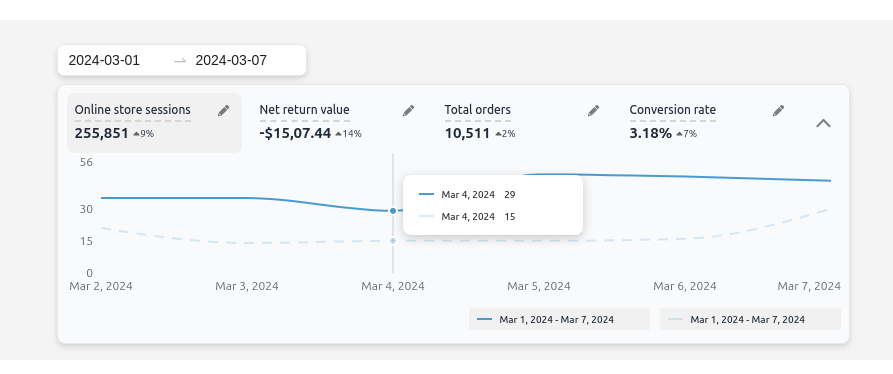
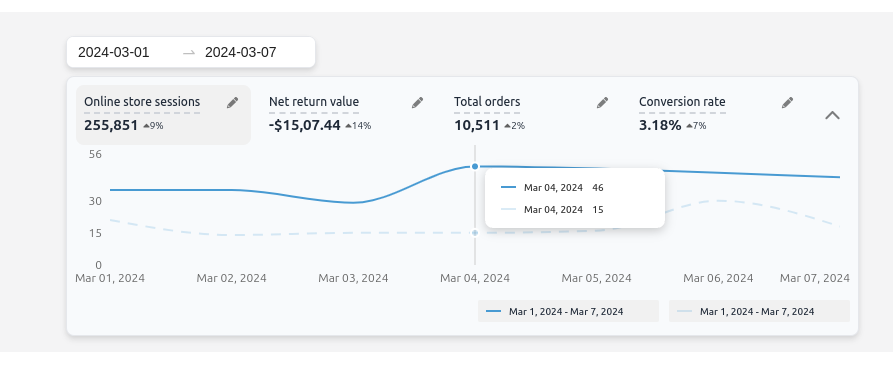
rechnages

diff --git a/src/pages/dashboard/index.tsx b/src/pages/dashboard/index.tsx
@@ -20,7 +20,7 @@ export const Dashboard: React.FC = () => {
       field: "end",
       operator: "eq",
       value: toDate
-        ? dayjs(toDate).endOf("day")
+        ? dayjs(toDate).endOf("day").add(1, "days")
         : dayjs().startOf("day").add(1, "days"),
     },
   ];
@@ -39,24 +39,32 @@ export const Dashboard: React.FC = () => {
     return useMemo(() => {
       if (d?.data?.data?.length > 0 && dailyOrders?.data?.data?.length > 0) {
         const formattedData1 = d?.data?.data?.map((item: IChartDatum) => {
-          const formattedDate = dayjs(item?.date).format("MMM D, YYYY");
-          const currentDate = dayjs(formattedDate)
-            .add(1, "day")
-            .format("MMM D, YYYY");
+          const currentDate = new Date(item?.date);
+          currentDate.setDate(currentDate.getDate());
 
+          const nextDateStr = currentDate.toLocaleDateString("en-US", {
+            month: "short",
+            day: "2-digit",
+            year: "numeric",
+          });
           return {
-            date: fromDate && toDate ? currentDate : formattedDate,
+            date: nextDateStr,
             value: item?.value,
           };
         });
+
         const formattedData2 = dailyOrders?.data?.data?.map(
           (item: IChartDatum) => {
-            const formattedDate = dayjs(item?.date).format("MMM D, YYYY");
-            const currentDate = dayjs(formattedDate)
-              .add(1, "day")
-              .format("MMM D, YYYY");
+            const currentDate = new Date(item?.date);
+            currentDate.setDate(currentDate.getDate());
+
+            const nextDateStr = currentDate.toLocaleDateString("en-US", {
+              month: "short",
+              day: "2-digit",
+              year: "numeric",
+            });
             return {
-              date: fromDate && toDate ? currentDate : formattedDate,
+              date: nextDateStr,
               value1: item?.value,
             };
           }
